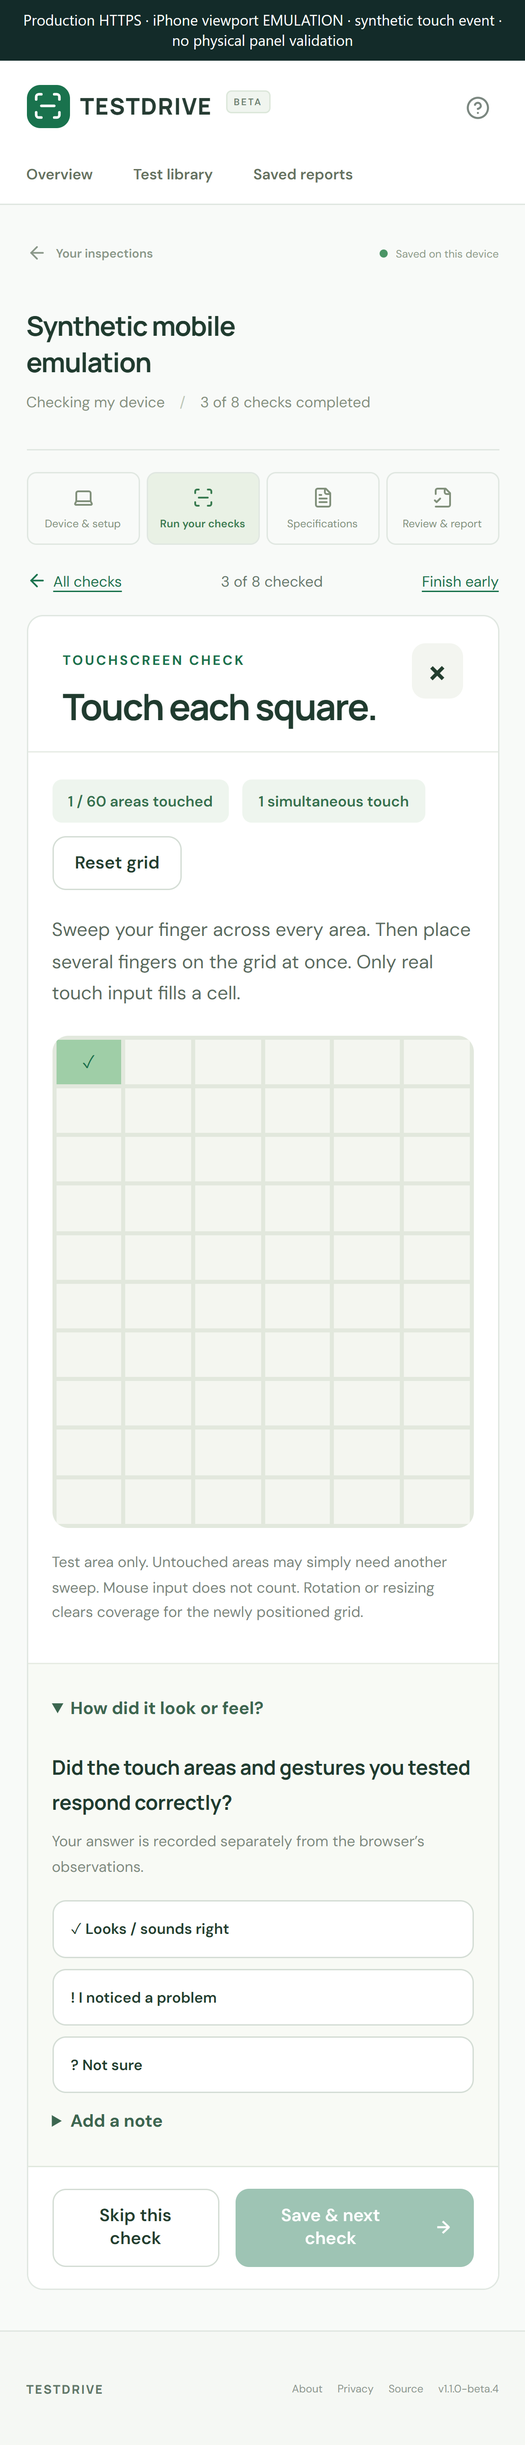
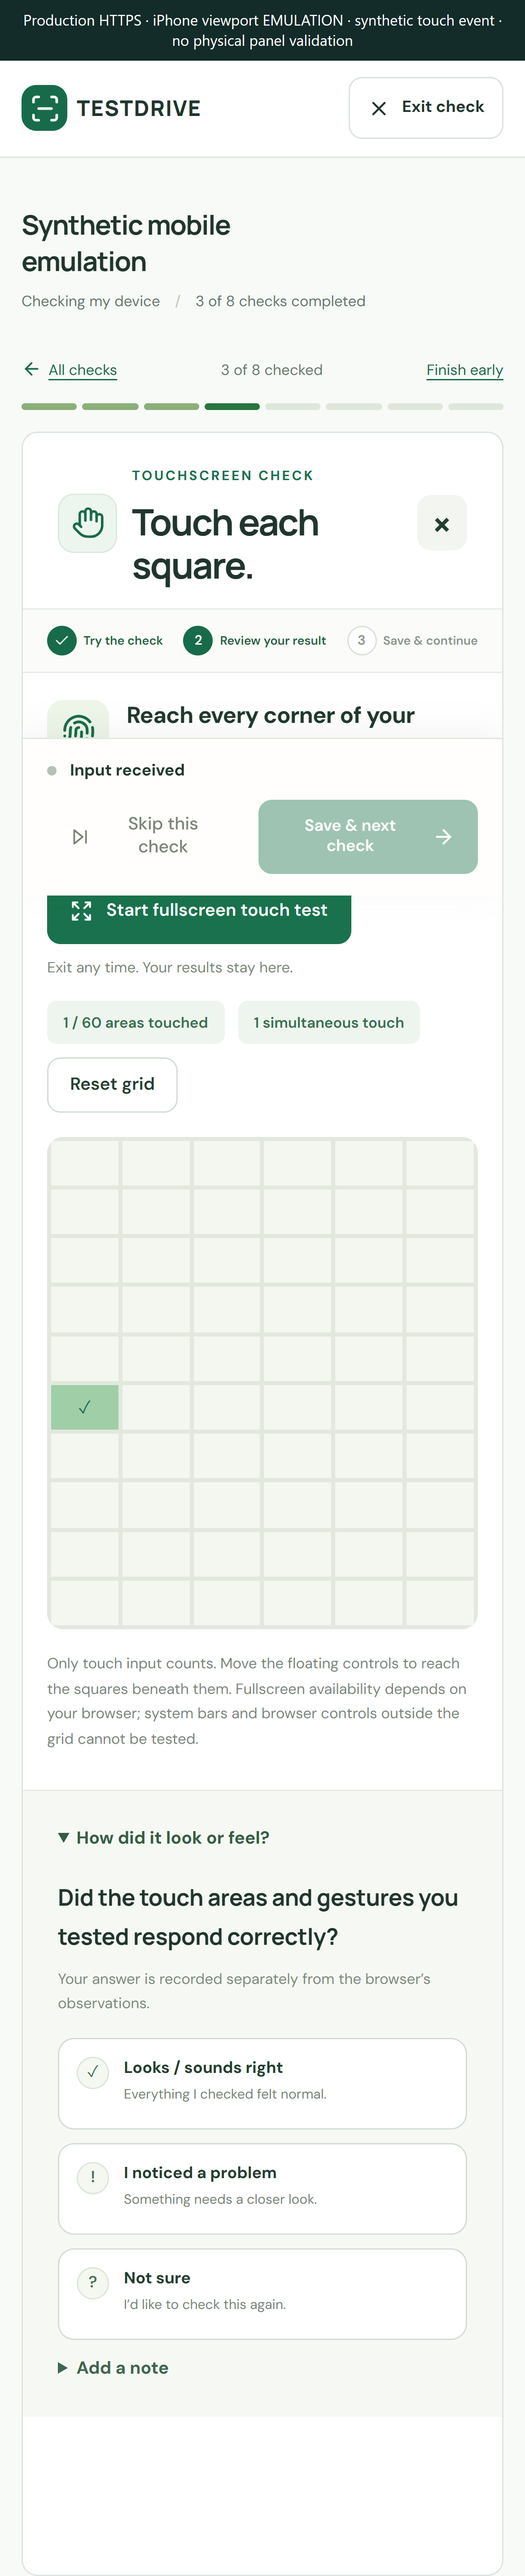
Record live UX release verification and screenshots

diff --git a/docs/verification.md b/docs/verification.md
@@ -8,6 +8,12 @@ The final candidate passed `npm run check`: TypeScript, ESLint, all 40 unit test
 
 New checks cover desktop 1440, tablet 768 and mobile 390 layouts, valid and unavailable battery/browser quota readings, stopped scan/retry/navigation cancellation, native and fallback fullscreen touch with actual browser touch events, mouse exclusion, retained coverage, Exit/Escape and focus restoration. The device-profile unit tests also cover rejected, invalid and never-settling APIs. Design comparison and resolved findings are documented in [design-qa.md](../design-qa.md). Screenshots are browser/software evidence; no physical panel or media-quality pass is implied. No new video or artwork is included.
 
+Firebase deployed implementation `5f50eddb1dda4737bad50f683cd569eb977e1ae5`, immutable tag `v1.2.0-beta.1`, with 17 static files. Public checks at 2026-10-15T03:33:37Z confirmed the exact JavaScript/CSS build hashes, app/deep routes 200, absent JavaScript 404, no-cache shell and immutable assets. At 03:33:43Z, a fresh full Chromium browser verified seven direct routes, refresh, all three automatic observations, same-origin requests only, and zero content-policy violations, failed requests or browser errors. [Release](https://github.com/DaDocterTaco/testdrive/releases/tag/v1.2.0-beta.1) · [CI run 38676846105](https://github.com/DaDocterTaco/testdrive/actions/runs/38676846105).
+
+All nine affected production HTTPS workflows passed in 50.4 seconds: three responsive sizes, absent browser readings, scan stop/retry/navigation cancellation, complete mobile lifecycle, native and fallback touch exits, and microphone phrase visibility. Final screenshots and machine-readable security/HTTP evidence are in `docs/evidence/production`. The release contains no uploaded assets. The intentionally excluded local demo edits and design directory remain preserved outside this release.
+
+At 03:35 UTC, CI had passed reproducible install, typecheck, lint, all 40 unit tests, build and browser installation; its complete 27-case browser run was still in progress. This record does not claim a final CI result before that run completes.
+
 ## 1.1.0-beta.4 unknown-keyboard confirmation
 
 The candidate passed `npm run check`: TypeScript, ESLint, all 37 unit tests and the production build. All six affected keyboard/mobile workflows passed locally in 46.7 seconds. The new nineteenth scenario verifies extra Numpad1 input, no confirmation before input or during capture, explicit confirmation before saving, invalidation on a new capture, and an exported `user_confirmed` assessment without invented core-key totals. The model-specific Copilot path, Escape exits, confirmed model import, partial progress and mobile layout also passed. Labeled screenshots are software evidence; physical keyboards remain unverified. Prior release results below retain their identities.

diff --git a/docs/supported-devices.md b/docs/supported-devices.md
@@ -2,6 +2,8 @@
 
 TESTDRIVE is a browser beta. Support is capability-based: unavailable or denied APIs are reported honestly. Physical-device evidence is recorded separately from automated checks and responsive emulation.
 
+The 1.2 UX release adds tested desktop (1440px), tablet (768px) and phone (390px/320px) layouts, a browser-sourced battery/website-quota overview, and native/full-viewport touch and display checks. Touch controls can move to expose covered cells; exit retains the observed grid. Website quota is not physical storage capacity. Native fullscreen and OS key handling remain browser-dependent. Current local, public and CI results are recorded in [verification.md](verification.md); older evidence below is historical.
+
 ## Intended browser coverage
 
 | Environment                    | Intended usable path                                                            | Restrictions                                                                               |
